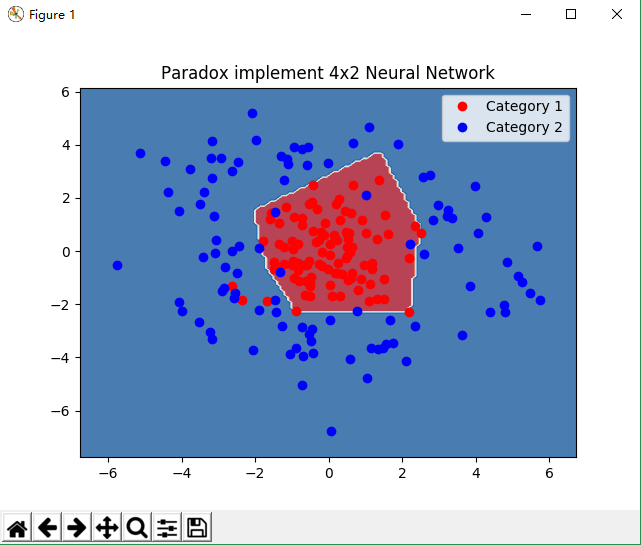
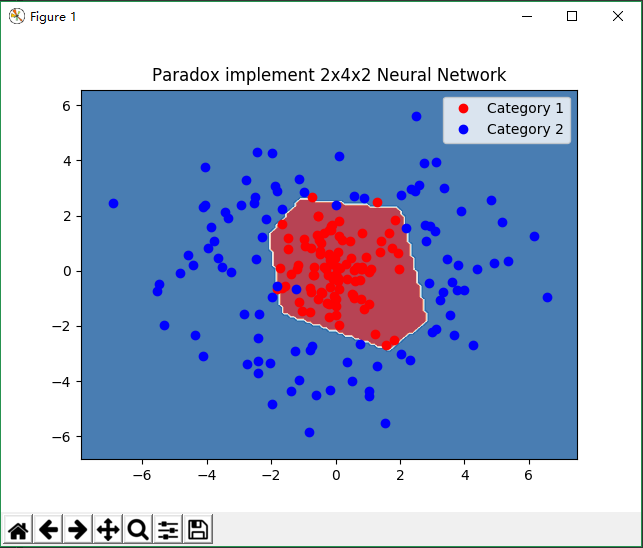
update readme

diff --git a/examples/2x4x2_neural_network.py b/examples/2x4x2_neural_network.py
@@ -65,7 +65,7 @@ predict_engine.bind({T: [x.ravel(), y.ravel()], K: [[-1] * len(x.ravel()), [1] *
 z = predict_engine.value().reshape(x.shape)
 
 # 绘制图像。
-plt.title('Paradox implement 4x2 Neural Network')
+plt.title('Paradox implement 2x4x2 Neural Network')
 plt.plot(c1_x, c1_y, 'ro', label='Category 1')
 plt.plot(c2_x, c2_y, 'bo', label='Category 2')
 plt.contourf(x, y, z, 4, cmap='RdBu', alpha=.8)

diff --git a/README.md b/README.md
@@ -1,12 +1,13 @@
-# Paradox 了解深度学习框架的原理
+# Paradox 小型深度学习框架
 
 > 用python3和numpy实现一个简单的深度学习框架，了解流行框架的原理。
 
 * 写了一些例子放在了`examples`文件夹下。
-* 需要完善的功能和fix的bug还很多。
+* 准备添加一些上层的接口。
 * 基本上实现了图计算和梯度的符号计算。
+* 再添加一些常用的Operators。
 
-> 下一步在解决大部分bug后尝试做符号计算化简的工作。
+> 可能要开始实现CNN和RNN了。
 
 ## 一些例子
 
@@ -253,7 +254,7 @@ predict_engine.bind({T: [x.ravel(), y.ravel()], K: [[-1] * len(x.ravel()), [1] *
 z = predict_engine.value().reshape(x.shape)
 
 # 绘制图像。
-plt.title('Paradox implement 4x2 Neural Network')
+plt.title('Paradox implement 2x4x2 Neural Network')
 plt.plot(c1_x, c1_y, 'ro', label='Category 1')
 plt.plot(c2_x, c2_y, 'bo', label='Category 2')
 plt.contourf(x, y, z, 4, cmap='RdBu', alpha=.8)
